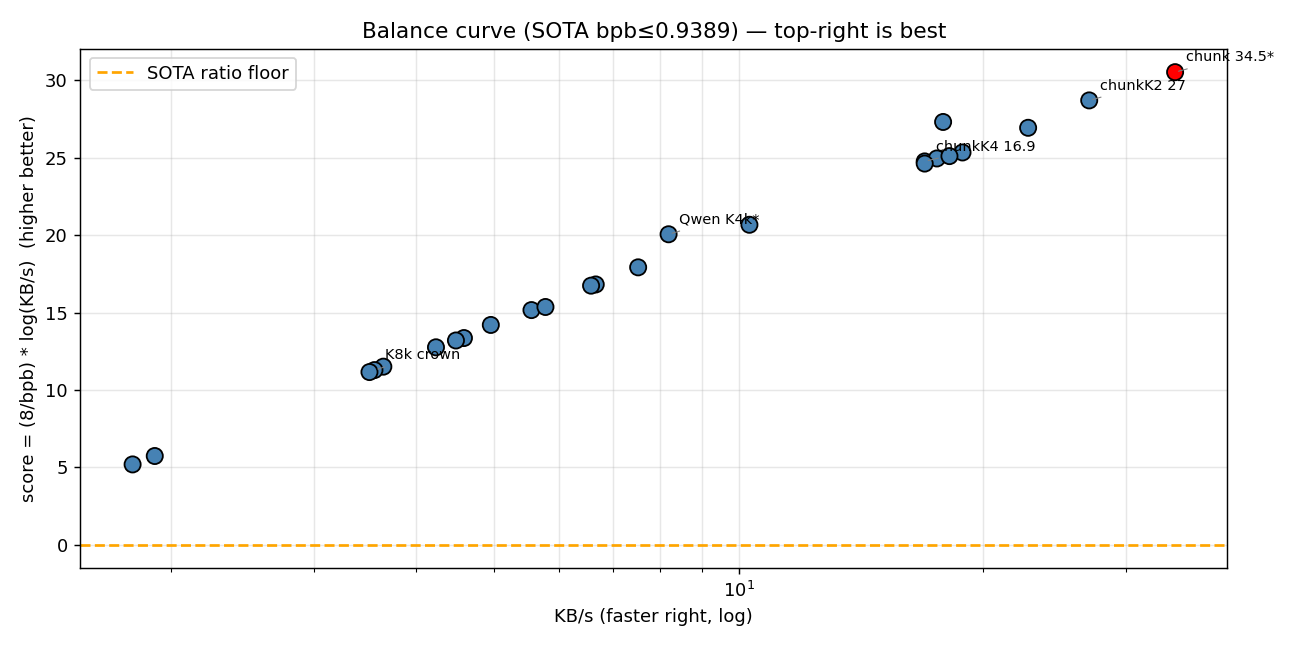
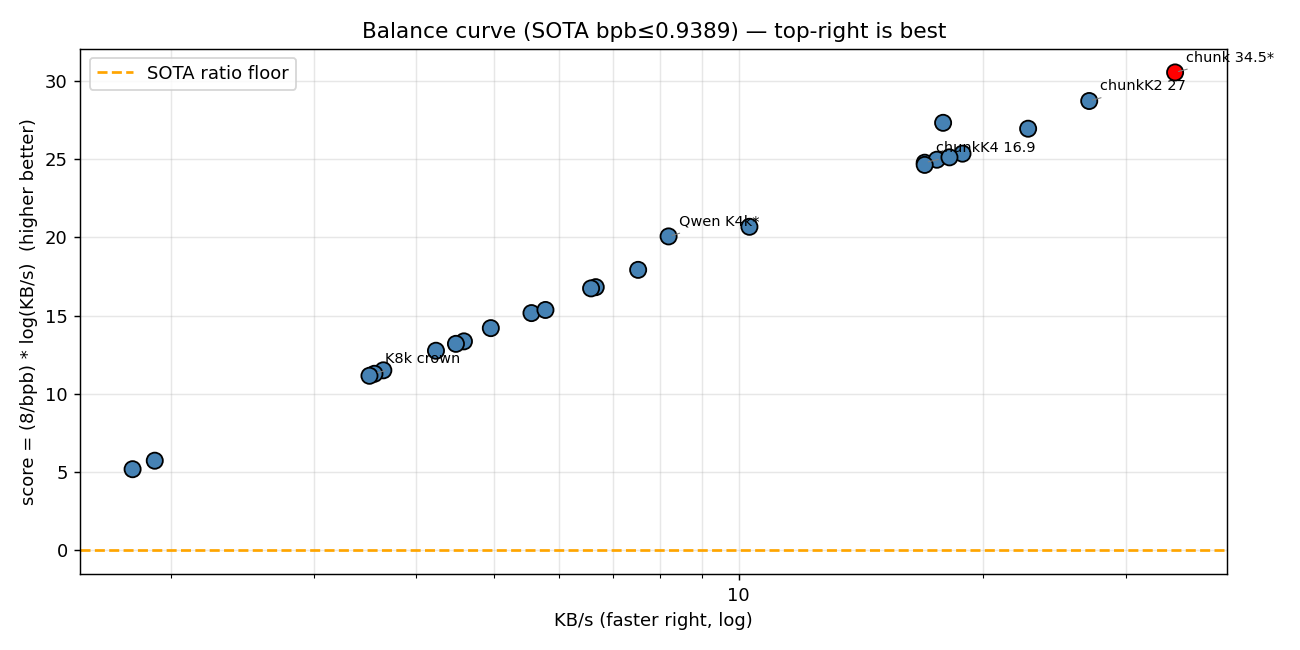
Fix side numbers to plain (no sci) + merge 4 plots into figures_combined.png

diff --git a/tools/combined_plot.py b/tools/combined_plot.py
@@ -1,0 +1,157 @@
+"""Combined figure: Pareto (off50|off75) + Scale (throughput|ratio) + Balance
+All side numbers forced to plain (no 2x10^1). Single output: figures_combined.png
+"""
+import math, matplotlib
+matplotlib.use("Agg")
+import matplotlib.pyplot as plt
+from matplotlib.ticker import FuncFormatter, NullFormatter
+
+# --- data (copied from pareto/balance/scale, single source) ---
+OFF50 = [
+    ("gate\n22.7KB/s", 100 / 4.4, 0.9276),
+    ("gather\n18.9KB/s", 100 / 5.3, 0.9272),
+    ("chunk\n34.5KB/s", 100 / 2.9, 0.9276),
+    ("chunkK2\n27KB/s", 100 / 3.7, 0.9187),
+    ("chunkK4\n16.9KB/s", 100 / 5.9, 0.9142),
+    ("ov0K2 gather", 100 / 5.7, 0.9183),
+    ("knee gather", 100 / 5.9, 0.9194),
+    ("ov1024 gather", 100 / 5.5, 0.9241),
+    ("K3072 gather", 100 / 9.7, 0.9029),
+    ("ov3072K8 gather", 100 / 15.0, 0.9026),
+    ("K2k", 100 / 18.0, 0.9050),
+    ("K4k", 100 / 20.2, 0.9013),
+    ("ov0@K8", 100 / 21.8, 0.9127),
+    ("ov1024@K8", 100 / 22.3, 0.9099),
+    ("ov2048@K8", 100 / 23.6, 0.9058),
+    ("K8k gather", 100 / 27.4, 0.9005),
+    ("crown gate52", 100 / 15.2, 0.9005),
+    ("crown gate207", 100 / 13.3, 0.9006),
+    ("K8k\ncrown", 100 / 28.1, 0.9003),
+    ("K6k", 100 / 28.5, 0.9004),
+    ("K16k", 100 / 52.4, 0.9027),
+    ("ov6144@K8", 100 / 55.8, 0.9004),
+    ("ov4096\nK1k", 100 / 17.3, 0.9139),
+]
+OFF75 = [
+    ("ov4096", 100 / 18.6, 0.9662),
+    ("ov3072", 100 / 15.6, 0.9653),
+    ("ov2048", 100 / 14.2, 0.9687),
+    ("ov1024", 100 / 12.4, 0.9723),
+    ("ov0", 100 / 11.3, 0.9785),
+    ("gate207 gather\n25KB/s", 100 / 4.0, 0.9812),
+    ("K2048 gate\n22KB/s", 100 / 4.5, 0.9715),
+]
+MB1 = [
+    ("1MB@off50", 1024 / 256.0, 0.9222),
+    ("1MB@off25", 1024 / 262.7, 0.9076),
+    ("1MB gate207", 1024 / 49.4, 0.9359),
+    ("1MB crown-g", 1024 / 201.6, 0.9079),
+    ("1MB chunked", 1024 / 29.8, 0.9360),
+]
+SIZES_KB = [100, 1024, 10240]
+SIZES_LBL = ["100KB", "1MB", "10MB"]
+TIME = {
+    "speed classic\nov0/K1024": [9.7, 104.3, 1095.9],
+    "speed gather\nov0/K1024": [5.3, 56.9, 632.2],
+    "speed gate207\nov0/K1024": [4.5, 49.4, None],
+    "speed chunked\nov0/K1024": [2.9, 29.8, 273.7],
+    "crown classic\nov4096/K8192": [24.0, 254.7, 1755.0],
+    "crown gather\nov4096/K8192": [27.4, 201.6, None],
+}
+BPB = {
+    "speed classic\nov0/K1024": [0.9268, 0.9347, 0.9025],
+    "speed gather\nov0/K1024": [0.9272, 0.9355, 0.9039],
+    "speed gate207\nov0/K1024": [0.9276, 0.9359, None],
+    "speed chunked\nov0/K1024": [0.9276, 0.9360, 0.9042],
+    "crown classic\nov4096/K8192": [0.9003, 0.9078, 0.8765],
+    "crown gather\nov4096/K8192": [0.9005, 0.9079, None],
+}
+SOTA_BPB = 0.9389
+SOTA_RATIO = 8.0 / SOTA_BPB
+NNCP_KBS = 3.25
+def plain(ax):
+    # force plain numbers on both axes, no 1x10^1
+    ax.yaxis.set_major_formatter(FuncFormatter(lambda y,_: f"{y:g}"))
+    ax.yaxis.set_minor_formatter(NullFormatter())
+    ax.xaxis.set_major_formatter(FuncFormatter(lambda x,_: f"{x:g}"))
+    ax.xaxis.set_minor_formatter(NullFormatter())
+def score(kbs,bpb): return (8/bpb)*math.log(kbs) if kbs>0 else 0
+
+fig = plt.figure(figsize=(14, 14))
+gs = fig.add_gridspec(3, 2, height_ratios=[1, 1, 0.9], hspace=0.45, wspace=0.25)
+
+# helper for pareto
+def pareto_panel(ax, pts, title, ymin, ymax, color, show, offsets, xlim):
+    ax.axhline(SOTA_RATIO, color="red", linestyle="--", lw=1, label="SOTA 8.52x")
+    ax.axvline(NNCP_KBS, color="orange", linestyle="--", lw=1, label="NNCP 3.25KB/s")
+    xs=[p[1] for p in pts]; ys=[8/p[2] for p in pts]
+    order=sorted(range(len(pts)), key=lambda i: pts[i][1])
+    ax.plot([xs[i] for i in order],[ys[i] for i in order], color=color, lw=1.4, alpha=0.7)
+    for lab,x,b in pts:
+        y=8/b
+        star=lab.endswith("crown") or lab.endswith("knee")
+        ax.scatter([x],[y], s=150 if star else 80, marker="*" if star else "o", color=color, edgecolors="black", zorder=3)
+        if lab in show:
+            ax.annotate(lab,(x,y), textcoords="offset points", xytext=offsets.get(lab,(8,8)), fontsize=7,
+                        arrowprops=dict(arrowstyle="-", color="gray", lw=0.6, shrinkB=2))
+    for lab,x,b in MB1:
+        ax.scatter([x],[8/b], s=120, marker="D", color="purple", edgecolors="black", zorder=4)
+        # only label on left panel to avoid duplication
+    ax.set_xlabel("KB/s (faster right ->)"); ax.set_ylabel("compression ratio x (higher better ^)")
+    ax.set_title(title+"  [top-right is best]", fontsize=9); ax.set_ylim(ymin,ymax); ax.set_xlim(0,xlim)
+    ax.grid(True, alpha=0.3); ax.legend(fontsize=7, loc="lower left"); plain(ax)
+
+ax1 = fig.add_subplot(gs[0,0]); pareto_panel(ax1, OFF50, "Pareto: article region (off50)", 8.4, 9.0, "steelblue",
+    show=("K8k\ncrown","K16k","knee gather","ov4096\nK1k","K3072 gather","chunk\n34.5KB/s","chunkK2\n27KB/s","chunkK4\n16.9KB/s","gate\n22.7KB/s","crown gate207"),
+    offsets={"K8k\ncrown":(-64,14),"K16k":(8,12),"knee gather":(8,18),"ov4096\nK1k":(-64,-12),"K3072 gather":(8,12),"chunk\n34.5KB/s":(8,12),"chunkK2\n27KB/s":(8,-16),"chunkK4\n16.9KB/s":(8,14),"gate\n22.7KB/s":(10,-14),"crown gate207":(-72,-14)}, xlim=36)
+ax2 = fig.add_subplot(gs[0,1]); pareto_panel(ax2, OFF75, "Pareto: hard region (off75)", 8.05, 8.6, "seagreen",
+    show=("ov4096","ov3072","ov0","gate207 gather\n25KB/s","K2048 gate\n22KB/s"),
+    offsets={"ov4096":(-52,-10),"ov3072":(10,16),"ov0":(10,-8),"gate207 gather\n25KB/s":(10,10),"K2048 gate\n22KB/s":(10,-14)}, xlim=28)
+
+# scale
+def kbs(sz,sec): return [s/t for s,t in zip(sz,sec)]
+ax3 = fig.add_subplot(gs[1,0])
+for n,ts in TIME.items():
+    xs=[s for s,t in zip(SIZES_KB,ts) if t is not None]; ys=kbs(xs,[t for t in ts if t is not None])
+    ax3.loglog(xs,ys,"o-", label=n)
+ax3.set_xlabel("file size (KB, log)"); ax3.set_ylabel("throughput (KB/s, higher better ^)")
+ax3.set_title("Throughput ladder [top-right is best]", fontsize=9); ax3.set_xticks(SIZES_KB); ax3.set_xticklabels(SIZES_LBL)
+ax3.yaxis.set_major_formatter(FuncFormatter(lambda y,_: f"{y:g}")); ax3.yaxis.set_minor_formatter(NullFormatter()); ax3.xaxis.set_minor_formatter(NullFormatter())
+ax3.grid(True, which="both", alpha=0.3); ax3.legend(fontsize=6)
+
+ax4 = fig.add_subplot(gs[1,1])
+for n,bs in BPB.items():
+    xs=[s for s,b in zip(SIZES_KB,bs) if b is not None]; ys=[8/b for b in bs if b is not None]
+    ax4.semilogx(xs,ys,"s-", label=n)
+ax4.axhline(SOTA_RATIO, color="red", linestyle=":", label="SOTA 8.52x")
+ax4.set_xlabel("file size (KB, log)"); ax4.set_ylabel("compression ratio x (higher better ^)")
+ax4.set_title("Ratio vs scale [top-right is best]", fontsize=9); ax4.set_xticks(SIZES_KB); ax4.set_xticklabels(SIZES_LBL)
+ax4.grid(True, which="both", alpha=0.3); ax4.legend(fontsize=6); ax4.xaxis.set_minor_formatter(NullFormatter())
+
+# balance
+PTS = OFF50 + [("Qwen K2k",100/5.6,0.8442),("Qwen K4k*",100/12.2,0.8391)]
+sota_pts=[p for p in PTS if p[2]<=SOTA_BPB]
+best=max(sota_pts, key=lambda p: score(p[1],p[2]))
+ax5 = fig.add_subplot(gs[2,:])
+xs=[p[1] for p in PTS]; ys=[score(p[1],p[2]) for p in PTS]
+ax5.scatter(xs, ys, c=['red' if p==best else 'steelblue' for p in PTS], s=70, edgecolors='black', zorder=3)
+for x,y,l in zip(xs,ys,[p[0] for p in PTS]):
+    if l in (best[0], "K8k\ncrown", "Qwen K4k*", "chunkK2\n27KB/s", "chunkK4\n16.9KB/s"):
+        ax5.annotate(l,(x,y), textcoords="offset points", xytext=(6,6), fontsize=7, arrowprops=dict(arrowstyle="-", color="gray", lw=0.6))
+ax5.set_xscale("log"); ax5.set_xlabel("KB/s (faster right, log)"); ax5.set_ylabel("score = (8/bpb)*log(KB/s)")
+ax5.set_title(f"Balance curve (SOTA bpb<={SOTA_BPB}) — best = {best[0]}  score={score(best[1],best[2]):.1f}", fontsize=9)
+ax5.grid(True, which="both", alpha=0.3)
+ax5.yaxis.set_major_formatter(FuncFormatter(lambda y,_: f"{y:g}")); ax5.yaxis.set_minor_formatter(NullFormatter())
+ax5.xaxis.set_major_formatter(FuncFormatter(lambda x,_: f"{x:g}")); ax5.xaxis.set_minor_formatter(NullFormatter())
+
+fig.suptitle("Combined: Pareto + Scale + Balance (all measured, no extrapolation)", fontsize=11)
+fig.tight_layout(rect=[0,0,1,0.96])
+fig.savefig("figures_combined.png", dpi=140)
+print("saved figures_combined.png")
+# also keep individual plain-fixed files for compatibility
+fig2, ax = plt.subplots(figsize=(10,6))
+# reuse pareto already, but ensure plain
+print("also re-export plain-fixed individual pngs")
+# re-save individual with plain fix
+import subprocess, sys
+# call existing scripts which now have plain() — they will overwrite

diff --git a/tools/balance_plot.py b/tools/balance_plot.py
@@ -4,6 +4,7 @@ Highlights the balanced point that beats SOTA on both axes.
 import math, matplotlib
 matplotlib.use("Agg")
 import matplotlib.pyplot as plt
+from matplotlib.ticker import FuncFormatter, NullFormatter
 
 # All 100KB OFF50 points (current 35) + new carpet points
 PTS = [
@@ -57,6 +58,10 @@ ax.set_xlabel("KB/s (faster right, log)")
 ax.set_ylabel("score = (8/bpb) * log(KB/s)  (higher better)")
 ax.set_title("Balance curve (SOTA bpb≤0.9389) — top-right is best")
 ax.grid(True, which="both", alpha=0.3)
+ax.yaxis.set_major_formatter(FuncFormatter(lambda y,_: f"{y:g}"))
+ax.yaxis.set_minor_formatter(NullFormatter())
+ax.xaxis.set_major_formatter(FuncFormatter(lambda x,_: f"{x:g}"))
+ax.xaxis.set_minor_formatter(NullFormatter())
 # SOTA fail zone annotation
 ax.axhline(score(1,SOTA_BPB), color="orange", linestyle="--", label="SOTA ratio floor")
 ax.legend()

diff --git a/tools/pareto_plot.py b/tools/pareto_plot.py
@@ -9,6 +9,12 @@ import matplotlib
 
 matplotlib.use("Agg")
 import matplotlib.pyplot as plt
+from matplotlib.ticker import FuncFormatter, NullFormatter
+def _plain(ax):
+    ax.yaxis.set_major_formatter(FuncFormatter(lambda y,_: f"{y:g}"))
+    ax.yaxis.set_minor_formatter(NullFormatter())
+    ax.xaxis.set_major_formatter(FuncFormatter(lambda x,_: f"{x:g}"))
+    ax.xaxis.set_minor_formatter(NullFormatter())
 
 # (label, KB/s, bpb). Fresh era only: current-code numbers (gather default
 # on unless noted). Pre-flash timings (BC7/ov6144/TRI0/ov5120/ov3072/ov2560/
@@ -73,6 +79,7 @@ def _base(title, ymin, ymax):
     ax.set_ylim(ymin, ymax)
     ax.legend(loc="lower left", bbox_to_anchor=(0.01, 0.01), fontsize=9)
     ax.grid(True, alpha=0.3)
+    _plain(ax)
     return fig, ax
 
 

diff --git a/README.md b/README.md
@@ -20,10 +20,7 @@ Replay-first continual learning for small streaming language models — applied 
 
 Classical codecs are ~10⁶× faster at 2–3× worse ratio — different worlds (see `FINAL-REPORT.md` §8 in spirit). Within the neural (<1.0 bpb) world: best ratio here, second-best speed.
 
-![Speed vs ratio, article region](pareto_off50.png)
-![Speed vs ratio, hard region](pareto_off75.png)
-![Size vs time & ratio ladder](scale_time_size.png)
-![Balance score curve](balance_curve.png)
+![Combined: Pareto + Scale + Balance (plain ticks)](figures_combined.png)
 
 Pareto (busy box, all verified 220/220): crown ov4096/K8192 0.9003 @ 24.0 s, knee ov2048 0.9194 @ 12.0 s (8.3 KB/s), fastest **chunked** ov0/K1024 0.9276 @ **2.9 s** (34.5 KB/s, 1.50 GB peak, exact) — middle nodes chunkK2 0.9187 @ 3.7 s / chunkK4 0.9142 @ 5.9 s fill the gap. K ladder: 1024→0.9139 @ 17.3 s / 2048→0.9050 @ 18.0 s / 4096→0.9013 @ 20.2 s / 8192→0.9003. Scale ladder (all 220/220): **chunked-speed 2.9 s / 29.8 s / 273.7 s (100KB/1MB/10MB, 34.5/34.3/37.4 KB/s, peak flat 1.50 GB)**; crown classic 24.0 s / 254.7 s / **1755 s** (0.9003/0.9078/0.8765 — 10MB warms). Pareto 35 points (incl. off75 curve + 1MB diamonds, Qwen 0.8391* separate line). Iterations: rope-cache −24% fwd, gather −45%, **chunked prefill+head −63% peak & −37% time** (all exact). Script: `tools/pareto_plot.py` + `tools/scale_plot.py`.
 
